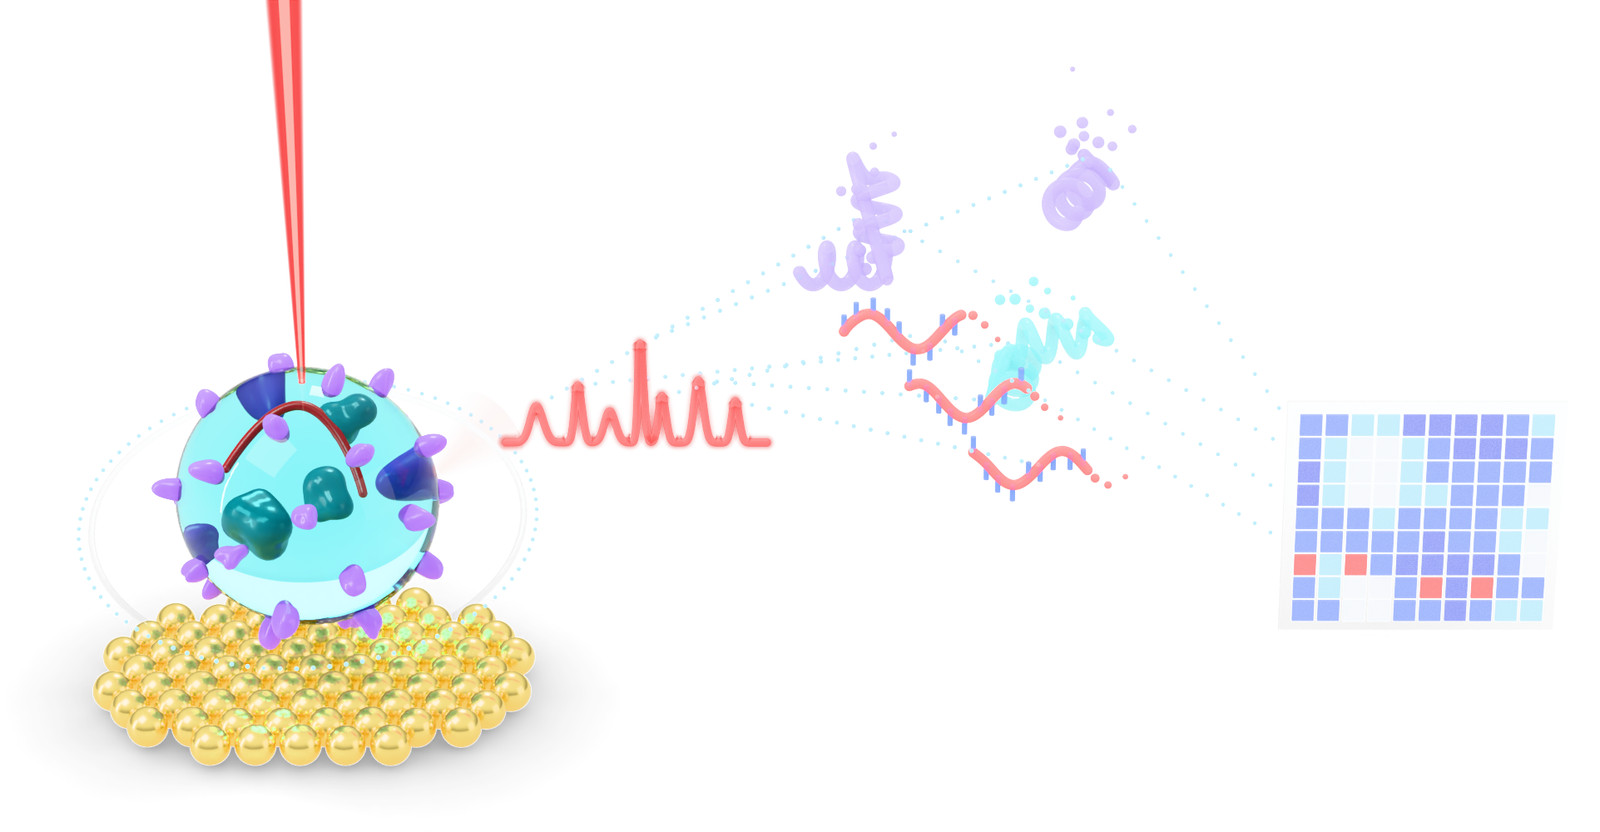
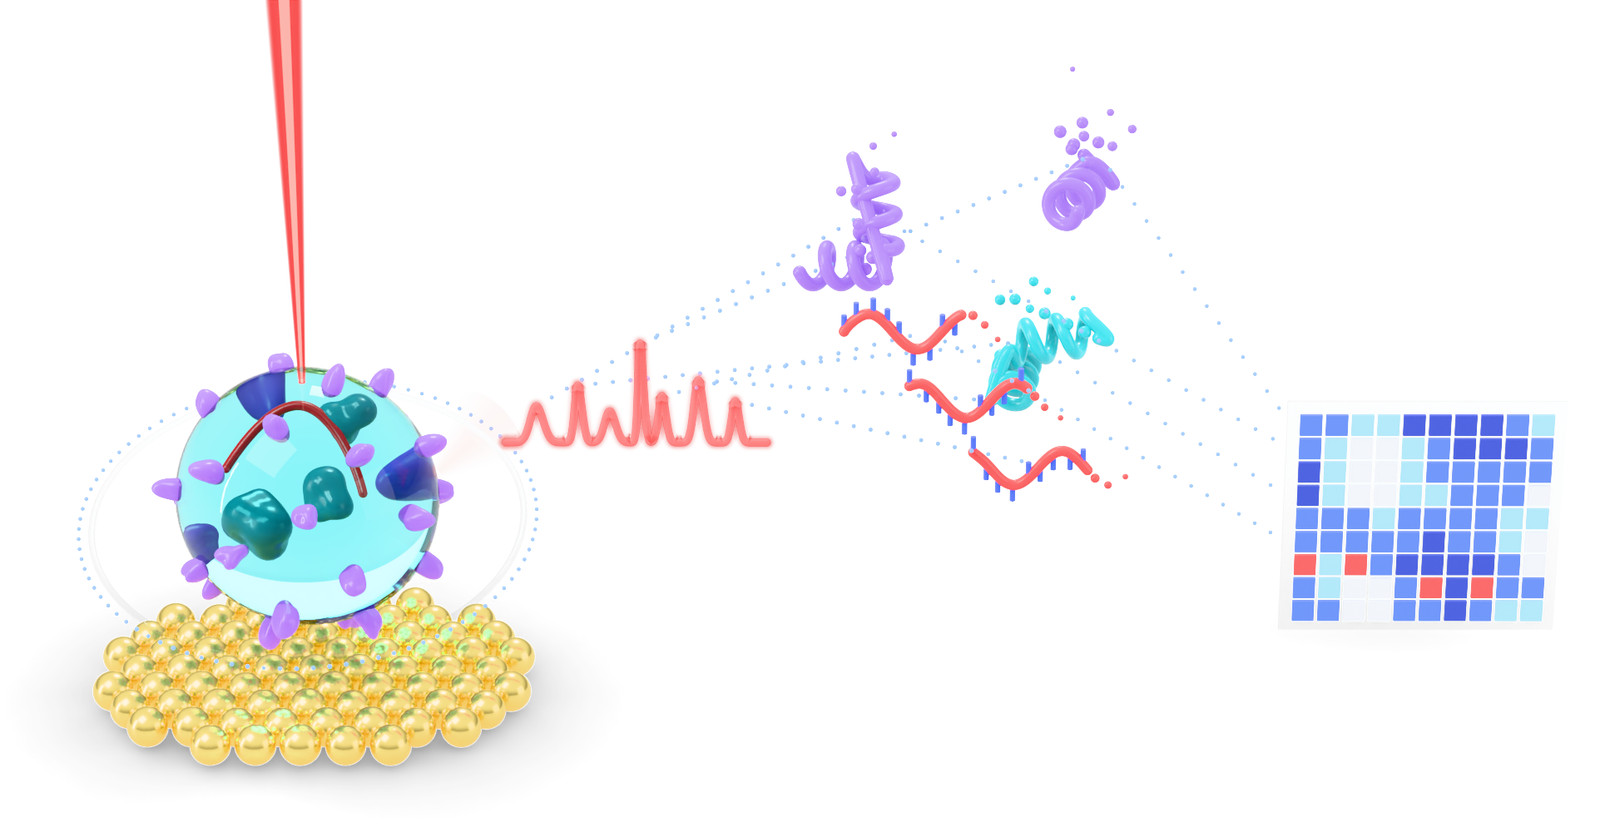
content: Rhino renders for SERS substrate and multi-platform biosensors, updated Virtual Omics

Changed region(s): [[0.7812, 0.5, 0.9688, 0.75], [0.5, 0.1875, 0.7188, 0.5938], [0.625, 0.125, 0.7188, 0.2812]]

diff --git a/research.html b/research.html
@@ -33,6 +33,9 @@
         <div class="topic reveal">
           <h3>SERS Substrate Fabrication</h3>
           <p class="desc"><span class="lang-ko">미세·나노 가공 기술을 이용한 SERS 기판 설계 및 제작<br>- 강하고 균일하며 재현성 높은 신호, 시료와 측정 환경에 맞춘 최적화 가능</span><span class="lang-en">Design and fabrication of SERS substrates by micro- and nanofabrication<br>- Strong, uniform and reproducible signals, optimized for each sample and measurement setting</span></p>
+          <div class="thumbs">
+            <img src="assets/img/research/sers-substrate-render.jpg" alt="SERS substrates on a silicon wafer: gold nanopillars, gold-capped silicon pillars, nanoparticle arrays and gold nanostars" width="1600" height="640" style="--ar:2.5" loading="lazy">
+          </div>
         </div>
 
         <div class="topic reveal">
@@ -46,6 +49,9 @@
         <div class="topic reveal">
           <h3>Multi-platform Biosensors</h3>
           <p class="desc"><span class="lang-ko">개발한 나노소재·핵산 나노구조를 전기화학 등 다양한 센서 플랫폼으로 확장 응용<br>- 엑소좀 miRNA 다중 검출 등 목적에 맞는 센서 설계, 현장 진단(POC)으로의 확장 가능</span><span class="lang-en">Extending our nanomaterials and nucleic-acid nanostructures to diverse sensor platforms, including electrochemical sensors<br>- Purpose-built sensors such as multiplexed exosomal miRNA detection, extendable to point-of-care (POC) diagnostics</span></p>
+          <div class="thumbs">
+            <img src="assets/img/research/multiplatform-render.jpg" alt="Multi-platform biosensing: lateral flow strip read by a handheld Raman probe and reader, nanostar substrate and a nanoparticle-captured target on a fiber membrane" width="1600" height="748" style="--ar:2.14" loading="lazy">
+          </div>
         </div>
 
         <div class="part reveal">
